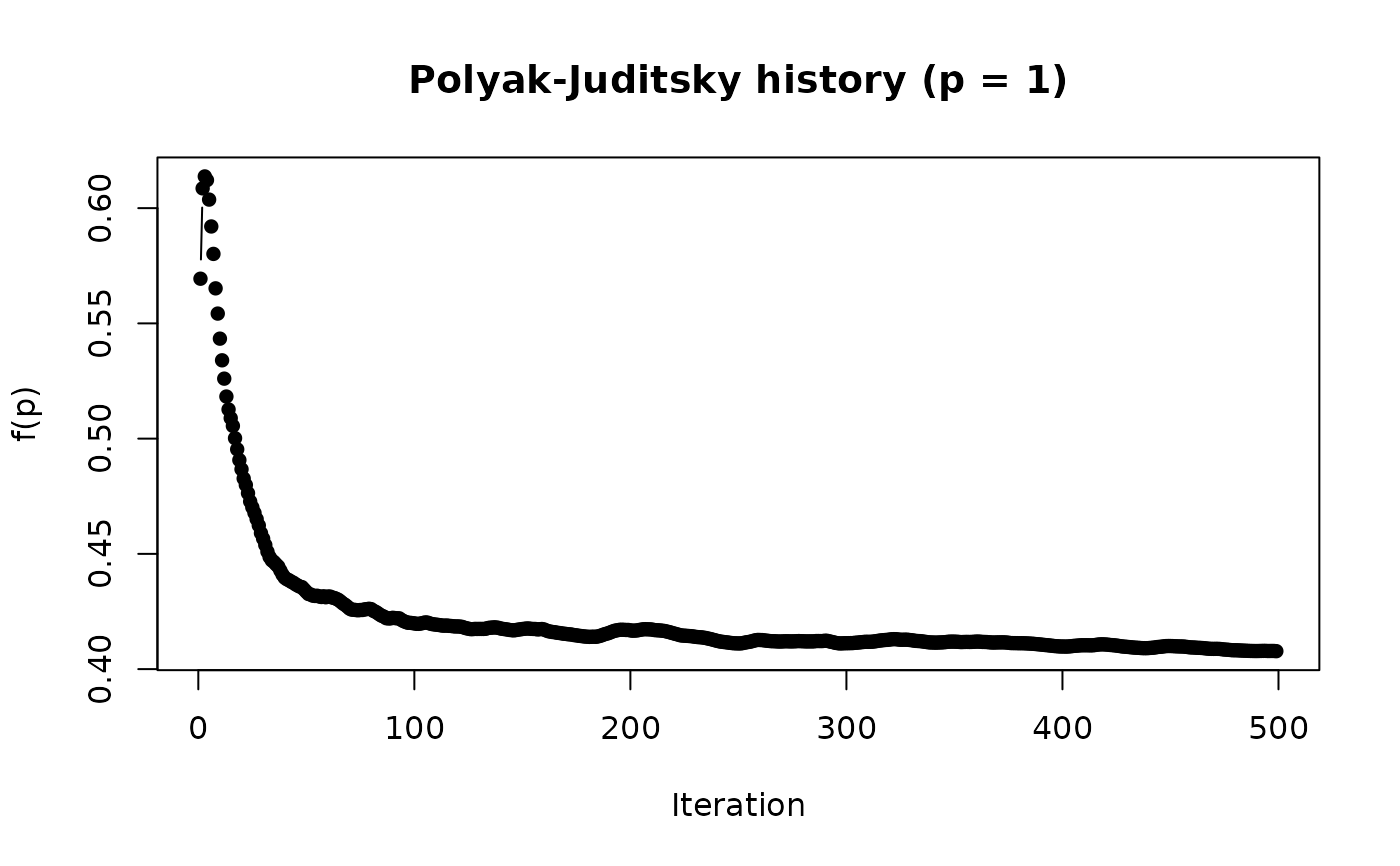
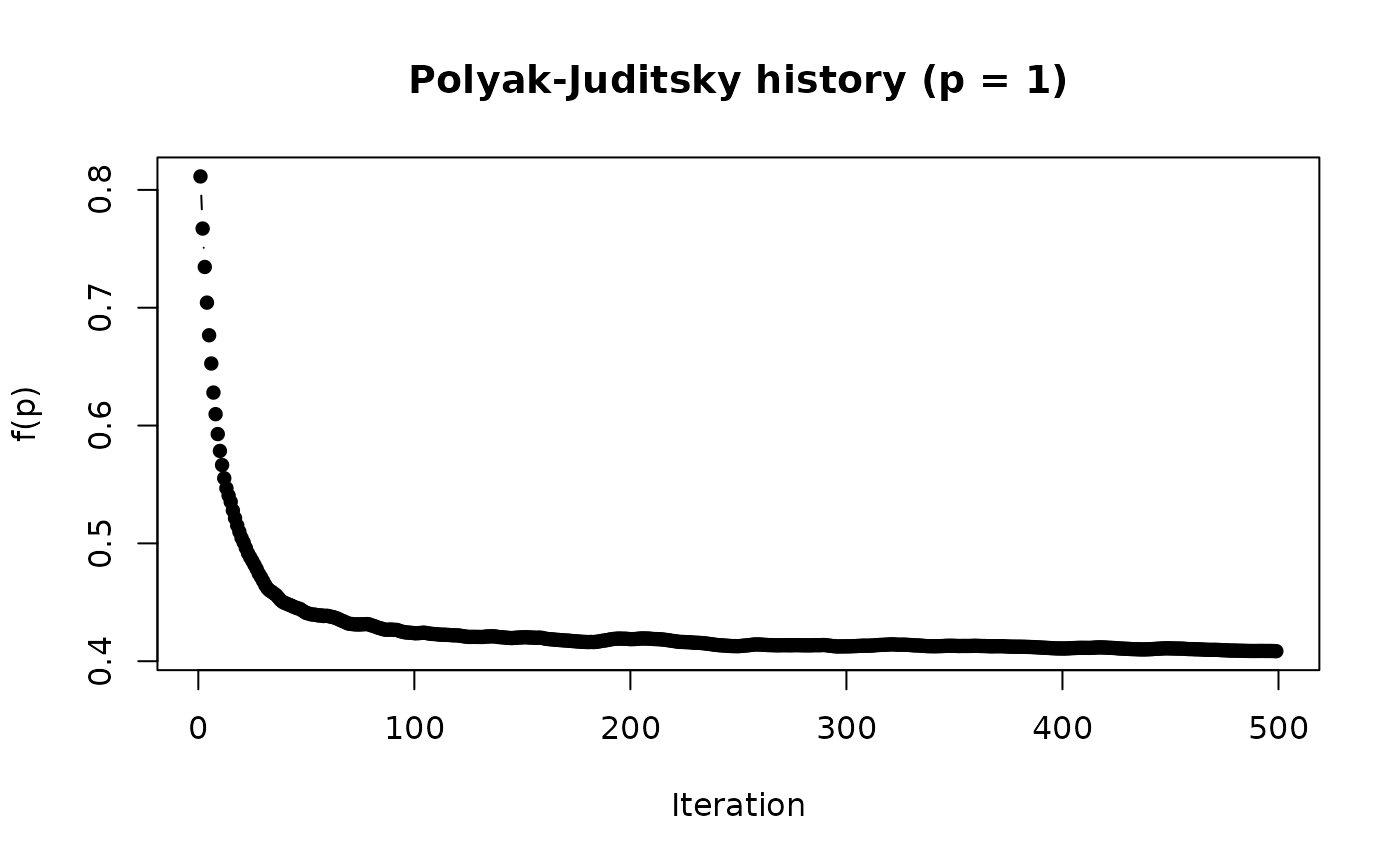
Deploying to gh-pages from @ philchalmers/SimDesign@1bde595043f6292743d909f2912d04f0cf3c6c48 🚀

diff --git a/reference/runSimulation.html b/reference/runSimulation.html
@@ -1073,9 +1073,9 @@ Carlo simulation. <code>Journal of Statistics Education, 24</code>(3), 136-156.
 <span class="r-out co"><span class="r-pr">#&gt;</span> <span style="color: #949494;"># A tibble: 3 × 7</span></span>
 <span class="r-out co"><span class="r-pr">#&gt;</span>       N      mu      SE REPLICATIONS SIM_TIME       SEED COMPLETED              </span>
 <span class="r-out co"><span class="r-pr">#&gt;</span>   <span style="color: #949494; font-style: italic;">&lt;dbl&gt;</span>   <span style="color: #949494; font-style: italic;">&lt;dbl&gt;</span>   <span style="color: #949494; font-style: italic;">&lt;dbl&gt;</span>        <span style="color: #949494; font-style: italic;">&lt;dbl&gt;</span> <span style="color: #949494; font-style: italic;">&lt;chr&gt;</span>         <span style="color: #949494; font-style: italic;">&lt;int&gt;</span> <span style="color: #949494; font-style: italic;">&lt;chr&gt;</span>                  </span>
-<span class="r-out co"><span class="r-pr">#&gt;</span> <span style="color: #BCBCBC;">1</span>    10 10.202  1.472<span style="text-decoration: underline;">9</span>             2 0.00s     533<span style="text-decoration: underline;">810</span>122 Sat May  2 13:23:54 20…</span>
-<span class="r-out co"><span class="r-pr">#&gt;</span> <span style="color: #BCBCBC;">2</span>    20 10.885  0.318<span style="text-decoration: underline;">64</span>            2 0.00s    <span style="text-decoration: underline;">1</span>340<span style="text-decoration: underline;">659</span>367 Sat May  2 13:23:54 20…</span>
-<span class="r-out co"><span class="r-pr">#&gt;</span> <span style="color: #BCBCBC;">3</span>    30  9.626<span style="text-decoration: underline;">8</span> 1.254<span style="text-decoration: underline;">8</span>             2 0.00s     881<span style="text-decoration: underline;">068</span>069 Sat May  2 13:23:54 20…</span>
+<span class="r-out co"><span class="r-pr">#&gt;</span> <span style="color: #BCBCBC;">1</span>    10 10.202  1.472<span style="text-decoration: underline;">9</span>             2 0.00s     533<span style="text-decoration: underline;">810</span>122 Mon May  4 00:56:44 20…</span>
+<span class="r-out co"><span class="r-pr">#&gt;</span> <span style="color: #BCBCBC;">2</span>    20 10.885  0.318<span style="text-decoration: underline;">64</span>            2 0.00s    <span style="text-decoration: underline;">1</span>340<span style="text-decoration: underline;">659</span>367 Mon May  4 00:56:44 20…</span>
+<span class="r-out co"><span class="r-pr">#&gt;</span> <span style="color: #BCBCBC;">3</span>    30  9.626<span style="text-decoration: underline;">8</span> 1.254<span style="text-decoration: underline;">8</span>             2 0.00s     881<span style="text-decoration: underline;">068</span>069 Mon May  4 00:56:44 20…</span>
 <span class="r-in"><span><span class="op">(</span><span class="va">results</span> <span class="op">&lt;-</span> <span class="fu"><a href="SimResults.html">SimResults</a></span><span class="op">(</span><span class="va">Final</span><span class="op">)</span><span class="op">)</span></span></span>
 <span class="r-out co"><span class="r-pr">#&gt;</span> <span style="color: #949494;"># A tibble: 6 × 2</span></span>
 <span class="r-out co"><span class="r-pr">#&gt;</span>       N  mean</span>
@@ -1101,9 +1101,9 @@ Carlo simulation. <code>Journal of Statistics Education, 24</code>(3), 136-156.
 <span class="r-out co"><span class="r-pr">#&gt;</span> <span style="color: #949494;"># A tibble: 3 × 7</span></span>
 <span class="r-out co"><span class="r-pr">#&gt;</span>       N      mu      SE REPLICATIONS SIM_TIME       SEED COMPLETED              </span>
 <span class="r-out co"><span class="r-pr">#&gt;</span>   <span style="color: #949494; font-style: italic;">&lt;dbl&gt;</span>   <span style="color: #949494; font-style: italic;">&lt;dbl&gt;</span>   <span style="color: #949494; font-style: italic;">&lt;dbl&gt;</span>        <span style="color: #949494; font-style: italic;">&lt;dbl&gt;</span> <span style="color: #949494; font-style: italic;">&lt;chr&gt;</span>         <span style="color: #949494; font-style: italic;">&lt;int&gt;</span> <span style="color: #949494; font-style: italic;">&lt;chr&gt;</span>                  </span>
-<span class="r-out co"><span class="r-pr">#&gt;</span> <span style="color: #BCBCBC;">1</span>    10 10.202  1.472<span style="text-decoration: underline;">9</span>             2 0.00s     533<span style="text-decoration: underline;">810</span>122 Sat May  2 13:23:55 20…</span>
-<span class="r-out co"><span class="r-pr">#&gt;</span> <span style="color: #BCBCBC;">2</span>    20 10.885  0.318<span style="text-decoration: underline;">64</span>            2 0.00s    <span style="text-decoration: underline;">1</span>340<span style="text-decoration: underline;">659</span>367 Sat May  2 13:23:55 20…</span>
-<span class="r-out co"><span class="r-pr">#&gt;</span> <span style="color: #BCBCBC;">3</span>    30  9.626<span style="text-decoration: underline;">8</span> 1.254<span style="text-decoration: underline;">8</span>             2 0.00s     881<span style="text-decoration: underline;">068</span>069 Sat May  2 13:23:55 20…</span>
+<span class="r-out co"><span class="r-pr">#&gt;</span> <span style="color: #BCBCBC;">1</span>    10 10.202  1.472<span style="text-decoration: underline;">9</span>             2 0.00s     533<span style="text-decoration: underline;">810</span>122 Mon May  4 00:56:44 20…</span>
+<span class="r-out co"><span class="r-pr">#&gt;</span> <span style="color: #BCBCBC;">2</span>    20 10.885  0.318<span style="text-decoration: underline;">64</span>            2 0.00s    <span style="text-decoration: underline;">1</span>340<span style="text-decoration: underline;">659</span>367 Mon May  4 00:56:44 20…</span>
+<span class="r-out co"><span class="r-pr">#&gt;</span> <span style="color: #BCBCBC;">3</span>    30  9.626<span style="text-decoration: underline;">8</span> 1.254<span style="text-decoration: underline;">8</span>             2 0.00s     881<span style="text-decoration: underline;">068</span>069 Mon May  4 00:56:44 20…</span>
 <span class="r-in"><span><span class="op">(</span><span class="va">results</span> <span class="op">&lt;-</span> <span class="fu"><a href="SimResults.html">SimResults</a></span><span class="op">(</span><span class="va">Final_rep</span><span class="op">)</span><span class="op">)</span></span></span>
 <span class="r-out co"><span class="r-pr">#&gt;</span> <span style="color: #949494;"># A tibble: 6 × 2</span></span>
 <span class="r-out co"><span class="r-pr">#&gt;</span>       N  mean</span>

diff --git a/articles/Catch_errors.html b/articles/Catch_errors.html
@@ -74,7 +74,7 @@
                         <h4 data-toc-skip class="author">Phil
 Chalmers</h4>
             
-            <h4 data-toc-skip class="date">2026-05-02</h4>
+            <h4 data-toc-skip class="date">2026-05-04</h4>
       
       <small class="dont-index">Source: <a href="https://github.com/philchalmers/SimDesign/blob/main/vignettes/Catch_errors.Rmd" class="external-link"><code>vignettes/Catch_errors.Rmd</code></a></small>
       <div class="d-none name"><code>Catch_errors.Rmd</code></div>
@@ -230,9 +230,9 @@ iterations).</p>
 <pre><code><span><span class="co">## <span style="color: #949494;"># A tibble: 3 × 8</span></span></span>
 <span><span class="co">##       N     bias REPLICATIONS SIM_TIME       SEED COMPLETED      ERRORS WARNINGS</span></span>
 <span><span class="co">##   <span style="color: #949494; font-style: italic;">&lt;dbl&gt;</span>    <span style="color: #949494; font-style: italic;">&lt;dbl&gt;</span>        <span style="color: #949494; font-style: italic;">&lt;dbl&gt;</span> <span style="color: #949494; font-style: italic;">&lt;chr&gt;</span>         <span style="color: #949494; font-style: italic;">&lt;int&gt;</span> <span style="color: #949494; font-style: italic;">&lt;chr&gt;</span>           <span style="color: #949494; font-style: italic;">&lt;int&gt;</span>    <span style="color: #949494; font-style: italic;">&lt;int&gt;</span></span></span>
-<span><span class="co">## <span style="color: #BCBCBC;">1</span>    10 0.061<span style="text-decoration: underline;">138</span>          100 0.05s    <span style="text-decoration: underline;">1</span>140<span style="text-decoration: underline;">350</span>788 Sat May  2 13…     53       59</span></span>
-<span><span class="co">## <span style="color: #BCBCBC;">2</span>    20 0.014<span style="text-decoration: underline;">295</span>          100 0.14s     312<span style="text-decoration: underline;">928</span>385 Sat May  2 13…     52       60</span></span>
-<span><span class="co">## <span style="color: #BCBCBC;">3</span>    30 0.017<span style="text-decoration: underline;">927</span>          100 0.05s     866<span style="text-decoration: underline;">248</span>189 Sat May  2 13…     42       56</span></span></code></pre>
+<span><span class="co">## <span style="color: #BCBCBC;">1</span>    10 0.061<span style="text-decoration: underline;">138</span>          100 0.06s    <span style="text-decoration: underline;">1</span>140<span style="text-decoration: underline;">350</span>788 Mon May  4 00…     53       59</span></span>
+<span><span class="co">## <span style="color: #BCBCBC;">2</span>    20 0.014<span style="text-decoration: underline;">295</span>          100 0.15s     312<span style="text-decoration: underline;">928</span>385 Mon May  4 00…     52       60</span></span>
+<span><span class="co">## <span style="color: #BCBCBC;">3</span>    30 0.017<span style="text-decoration: underline;">927</span>          100 0.05s     866<span style="text-decoration: underline;">248</span>189 Mon May  4 00…     42       56</span></span></code></pre>
 <p>What you’ll immediately notice from this output object is that counts
 of the error and warning messages have been appended to the
 <code>result</code> object. This is useful to determine just how

diff --git a/articles/Fixed_obj_fun.html b/articles/Fixed_obj_fun.html
@@ -74,7 +74,7 @@
                         <h4 data-toc-skip class="author">Phil
 Chalmers</h4>
             
-            <h4 data-toc-skip class="date">2026-05-02</h4>
+            <h4 data-toc-skip class="date">2026-05-04</h4>
       
       <small class="dont-index">Source: <a href="https://github.com/philchalmers/SimDesign/blob/main/vignettes/Fixed_obj_fun.Rmd" class="external-link"><code>vignettes/Fixed_obj_fun.Rmd</code></a></small>
       <div class="d-none name"><code>Fixed_obj_fun.Rmd</code></div>
@@ -244,9 +244,9 @@ defined objects contain a large amount of code or information.</p>
 <pre><code><span><span class="co">## <span style="color: #949494;"># A tibble: 3 × 6</span></span></span>
 <span><span class="co">##       N     p REPLICATIONS SIM_TIME       SEED COMPLETED               </span></span>
 <span><span class="co">##   <span style="color: #949494; font-style: italic;">&lt;dbl&gt;</span> <span style="color: #949494; font-style: italic;">&lt;dbl&gt;</span>        <span style="color: #949494; font-style: italic;">&lt;dbl&gt;</span> <span style="color: #949494; font-style: italic;">&lt;chr&gt;</span>         <span style="color: #949494; font-style: italic;">&lt;int&gt;</span> <span style="color: #949494; font-style: italic;">&lt;chr&gt;</span>                   </span></span>
-<span><span class="co">## <span style="color: #BCBCBC;">1</span>    10 0.044         <span style="text-decoration: underline;">1</span>000 0.25s     488<span style="text-decoration: underline;">349</span>520 Sat May  2 13:24:06 2026</span></span>
-<span><span class="co">## <span style="color: #BCBCBC;">2</span>    20 0.06          <span style="text-decoration: underline;">1</span>000 0.35s     469<span style="text-decoration: underline;">344</span>150 Sat May  2 13:24:07 2026</span></span>
-<span><span class="co">## <span style="color: #BCBCBC;">3</span>    30 0.054         <span style="text-decoration: underline;">1</span>000 0.24s    <span style="text-decoration: underline;">1</span>550<span style="text-decoration: underline;">099</span>436 Sat May  2 13:24:07 2026</span></span></code></pre>
+<span><span class="co">## <span style="color: #BCBCBC;">1</span>    10 0.044         <span style="text-decoration: underline;">1</span>000 0.27s     488<span style="text-decoration: underline;">349</span>520 Mon May  4 00:56:56 2026</span></span>
+<span><span class="co">## <span style="color: #BCBCBC;">2</span>    20 0.06          <span style="text-decoration: underline;">1</span>000 0.36s     469<span style="text-decoration: underline;">344</span>150 Mon May  4 00:56:57 2026</span></span>
+<span><span class="co">## <span style="color: #BCBCBC;">3</span>    30 0.054         <span style="text-decoration: underline;">1</span>000 0.25s    <span style="text-decoration: underline;">1</span>550<span style="text-decoration: underline;">099</span>436 Mon May  4 00:56:57 2026</span></span></code></pre>
 <p>By placing objects in a list and passing this to
 <code>fixed_objects</code>, the objects are safely exported to all
 relevant functions. Furthermore, running this code in parallel will also

diff --git a/reference/reSummarise.html b/reference/reSummarise.html
@@ -218,9 +218,9 @@ Carlo simulation. <code>Journal of Statistics Education, 24</code>(3), 136-156.
 <span class="r-out co"><span class="r-pr">#&gt;</span> <span style="color: #949494;"># A tibble: 3 × 7</span></span>
 <span class="r-out co"><span class="r-pr">#&gt;</span>       N   mean median REPLICATIONS SIM_TIME       SEED COMPLETED               </span>
 <span class="r-out co"><span class="r-pr">#&gt;</span>   <span style="color: #949494; font-style: italic;">&lt;dbl&gt;</span>  <span style="color: #949494; font-style: italic;">&lt;dbl&gt;</span>  <span style="color: #949494; font-style: italic;">&lt;dbl&gt;</span>        <span style="color: #949494; font-style: italic;">&lt;dbl&gt;</span> <span style="color: #949494; font-style: italic;">&lt;chr&gt;</span>         <span style="color: #949494; font-style: italic;">&lt;int&gt;</span> <span style="color: #949494; font-style: italic;">&lt;chr&gt;</span>                   </span>
-<span class="r-out co"><span class="r-pr">#&gt;</span> <span style="color: #BCBCBC;">1</span>    10 10.192 10.230           50 0.01s    <span style="text-decoration: underline;">1</span>771<span style="text-decoration: underline;">457</span>935 Sat May  2 13:23:50 2026</span>
-<span class="r-out co"><span class="r-pr">#&gt;</span> <span style="color: #BCBCBC;">2</span>    20 10.146 10.084           50 0.01s     590<span style="text-decoration: underline;">590</span>962 Sat May  2 13:23:50 2026</span>
-<span class="r-out co"><span class="r-pr">#&gt;</span> <span style="color: #BCBCBC;">3</span>    30 10.257 10.328           50 0.01s     273<span style="text-decoration: underline;">992</span>574 Sat May  2 13:23:50 2026</span>
+<span class="r-out co"><span class="r-pr">#&gt;</span> <span style="color: #BCBCBC;">1</span>    10 10.192 10.230           50 0.01s    <span style="text-decoration: underline;">1</span>771<span style="text-decoration: underline;">457</span>935 Mon May  4 00:56:40 2026</span>
+<span class="r-out co"><span class="r-pr">#&gt;</span> <span style="color: #BCBCBC;">2</span>    20 10.146 10.084           50 0.01s     590<span style="text-decoration: underline;">590</span>962 Mon May  4 00:56:40 2026</span>
+<span class="r-out co"><span class="r-pr">#&gt;</span> <span style="color: #BCBCBC;">3</span>    30 10.257 10.328           50 0.01s     273<span style="text-decoration: underline;">992</span>574 Mon May  4 00:56:40 2026</span>
 <span class="r-in"><span></span></span>
 <span class="r-in"><span><span class="co"># same summarise but with bootstrapping</span></span></span>
 <span class="r-in"><span><span class="va">res2</span> <span class="op">&lt;-</span> <span class="fu">reSummarise</span><span class="op">(</span><span class="va">Summarise</span>, results <span class="op">=</span> <span class="va">res</span>, boot_method <span class="op">=</span> <span class="st">'basic'</span><span class="op">)</span></span></span>

diff --git a/reference/rint.html b/reference/rint.html
@@ -128,10 +128,10 @@ Carlo simulation. <code>Journal of Statistics Education, 24</code>(3), 136-156.
 <span class="r-in"><span><span class="co"># compare speed to sample()</span></span></span>
 <span class="r-in"><span><span class="fu"><a href="https://rdrr.io/r/base/system.time.html" class="external-link">system.time</a></span><span class="op">(</span><span class="va">x</span> <span class="op">&lt;-</span> <span class="fu">rint</span><span class="op">(</span><span class="fl">1000</span>, min <span class="op">=</span> <span class="fl">100</span>, max <span class="op">=</span> <span class="fl">1e8</span><span class="op">)</span><span class="op">)</span></span></span>
 <span class="r-out co"><span class="r-pr">#&gt;</span>    user  system elapsed </span>
-<span class="r-out co"><span class="r-pr">#&gt;</span>   0.001   0.000   0.001 </span>
+<span class="r-out co"><span class="r-pr">#&gt;</span>   0.000   0.000   0.001 </span>
 <span class="r-in"><span><span class="fu"><a href="https://rdrr.io/r/base/system.time.html" class="external-link">system.time</a></span><span class="op">(</span><span class="va">x2</span> <span class="op">&lt;-</span> <span class="fu"><a href="https://rdrr.io/r/base/sample.html" class="external-link">sample</a></span><span class="op">(</span><span class="fl">100</span><span class="op">:</span><span class="fl">1e8</span>, <span class="fl">1000</span>, replace <span class="op">=</span> <span class="cn">TRUE</span><span class="op">)</span><span class="op">)</span></span></span>
 <span class="r-out co"><span class="r-pr">#&gt;</span>    user  system elapsed </span>
-<span class="r-out co"><span class="r-pr">#&gt;</span>       0       0       0 </span>
+<span class="r-out co"><span class="r-pr">#&gt;</span>   0.001   0.000   0.000 </span>
 <span class="r-in"><span></span></span>
 <span class="r-in"><span><span class="co"># sample 1000 integer values within -20 to 20</span></span></span>
 <span class="r-in"><span><span class="va">x</span> <span class="op">&lt;-</span> <span class="fu">rint</span><span class="op">(</span><span class="fl">1000</span>, min <span class="op">=</span> <span class="op">-</span><span class="fl">20</span>, max <span class="op">=</span> <span class="fl">20</span><span class="op">)</span></span></span>

diff --git a/articles/HPC-computing.html b/articles/HPC-computing.html
@@ -74,7 +74,7 @@
                         <h4 data-toc-skip class="author">Phil
 Chalmers</h4>
             
-            <h4 data-toc-skip class="date">2026-05-02</h4>
+            <h4 data-toc-skip class="date">2026-05-04</h4>
       
       <small class="dont-index">Source: <a href="https://github.com/philchalmers/SimDesign/blob/main/vignettes/HPC-computing.Rmd" class="external-link"><code>vignettes/HPC-computing.Rmd</code></a></small>
       <div class="d-none name"><code>HPC-computing.Rmd</code></div>

diff --git a/articles/MultipleAnalyses.html b/articles/MultipleAnalyses.html
@@ -74,7 +74,7 @@
                         <h4 data-toc-skip class="author">Phil
 Chalmers</h4>
             
-            <h4 data-toc-skip class="date">2026-05-02</h4>
+            <h4 data-toc-skip class="date">2026-05-04</h4>
       
       <small class="dont-index">Source: <a href="https://github.com/philchalmers/SimDesign/blob/main/vignettes/MultipleAnalyses.Rmd" class="external-link"><code>vignettes/MultipleAnalyses.Rmd</code></a></small>
       <div class="d-none name"><code>MultipleAnalyses.Rmd</code></div>

diff --git a/articles/Parallel-computing.html b/articles/Parallel-computing.html
@@ -74,7 +74,7 @@
                         <h4 data-toc-skip class="author">Phil
 Chalmers</h4>
             
-            <h4 data-toc-skip class="date">2026-05-02</h4>
+            <h4 data-toc-skip class="date">2026-05-04</h4>
       
       <small class="dont-index">Source: <a href="https://github.com/philchalmers/SimDesign/blob/main/vignettes/Parallel-computing.Rmd" class="external-link"><code>vignettes/Parallel-computing.Rmd</code></a></small>
       <div class="d-none name"><code>Parallel-computing.Rmd</code></div>

diff --git a/articles/Saving-results.html b/articles/Saving-results.html
@@ -74,7 +74,7 @@
                         <h4 data-toc-skip class="author">Phil
 Chalmers</h4>
             
-            <h4 data-toc-skip class="date">2026-05-02</h4>
+            <h4 data-toc-skip class="date">2026-05-04</h4>
       
       <small class="dont-index">Source: <a href="https://github.com/philchalmers/SimDesign/blob/main/vignettes/Saving-results.Rmd" class="external-link"><code>vignettes/Saving-results.Rmd</code></a></small>
       <div class="d-none name"><code>Saving-results.Rmd</code></div>

diff --git a/articles/SimDesign-intro.html b/articles/SimDesign-intro.html
@@ -74,7 +74,7 @@
                         <h4 data-toc-skip class="author">Phil
 Chalmers</h4>
             
-            <h4 data-toc-skip class="date">2026-05-02</h4>
+            <h4 data-toc-skip class="date">2026-05-04</h4>
       
       <small class="dont-index">Source: <a href="https://github.com/philchalmers/SimDesign/blob/main/vignettes/SimDesign-intro.Rmd" class="external-link"><code>vignettes/SimDesign-intro.Rmd</code></a></small>
       <div class="d-none name"><code>SimDesign-intro.Rmd</code></div>

diff --git a/reference/MSRSE.html b/reference/MSRSE.html
@@ -155,7 +155,7 @@ Carlo simulation. <code>Journal of Statistics Education, 24</code>(3), 136-156.
 <span class="r-out co"><span class="r-pr">#&gt;</span> <span style="color: #949494;"># A tibble: 1 × 6</span></span>
 <span class="r-out co"><span class="r-pr">#&gt;</span>   `SE.(Intercept)`   SE.X REPLICATIONS SIM_TIME      SEED COMPLETED             </span>
 <span class="r-out co"><span class="r-pr">#&gt;</span>              <span style="color: #949494; font-style: italic;">&lt;dbl&gt;</span>  <span style="color: #949494; font-style: italic;">&lt;dbl&gt;</span>        <span style="color: #949494; font-style: italic;">&lt;dbl&gt;</span> <span style="color: #949494; font-style: italic;">&lt;chr&gt;</span>        <span style="color: #949494; font-style: italic;">&lt;int&gt;</span> <span style="color: #949494; font-style: italic;">&lt;chr&gt;</span>                 </span>
-<span class="r-out co"><span class="r-pr">#&gt;</span> <span style="color: #BCBCBC;">1</span>          0.988<span style="text-decoration: underline;">22</span> 1.178<span style="text-decoration: underline;">1</span>          500 0.48s    402<span style="text-decoration: underline;">147</span>477 Sat May  2 13:23:32 2…</span>
+<span class="r-out co"><span class="r-pr">#&gt;</span> <span style="color: #BCBCBC;">1</span>          0.988<span style="text-decoration: underline;">22</span> 1.178<span style="text-decoration: underline;">1</span>          500 0.50s    402<span style="text-decoration: underline;">147</span>477 Mon May  4 00:56:22 2…</span>
 <span class="r-in"><span></span></span>
 <span class="r-in"><span></span></span>
 </code></pre></div>

diff --git a/reference/PBA.html b/reference/PBA.html
@@ -254,7 +254,7 @@ Society for Industrial &amp; Applied Mathematics (SIAM), 51, 2261-2279.</p>
 <span class="r-out co"><span class="r-pr">#&gt;</span> [1] TRUE</span>
 <span class="r-out co"><span class="r-pr">#&gt;</span> </span>
 <span class="r-out co"><span class="r-pr">#&gt;</span> $time</span>
-<span class="r-out co"><span class="r-pr">#&gt;</span> [1] 0.12s</span>
+<span class="r-out co"><span class="r-pr">#&gt;</span> [1] 0.13s</span>
 <span class="r-out co"><span class="r-pr">#&gt;</span> </span>
 <span class="r-out co"><span class="r-pr">#&gt;</span> $iterations</span>
 <span class="r-out co"><span class="r-pr">#&gt;</span> [1] 172</span>